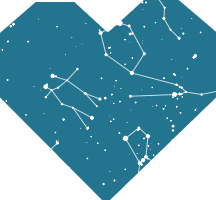
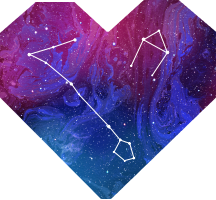
Updated background images and replaced lilac color with berry
Replaced the hero background image and heart constellation to match the new design that'll be used in all wedding designs

diff --git a/styles.css b/styles.css
@@ -12,7 +12,7 @@ html{
 
 :root {
   --white: #ffffff;
-  --lilac: #C09EBF;
+  --berry: #8A519C;
   --light-grey: #f6f6f6;
   --heading-type:'Poppins', sans-serif;;
   --body-type:'Roboto', sans-serif;
@@ -61,6 +61,7 @@ body{
 	text-align: center;
 	background-image: url(img/hero-desktop.png);
 	background-size: 100%;
+	background-position: center;
 	display:flex;
 }
 
@@ -185,12 +186,12 @@ body{
 }
 
 .subheading.color-modifier{
-	color: var(--lilac);
+	color: var(--berry);
 	
 }
 
 .subheading-large.color-modifier{
-	color: var(--lilac);
+	color: var(--berry);
 }
 
 .body-copy, .hashtag{
@@ -243,6 +244,7 @@ body{
 .hero{
 	background-image: url(img/hero-mobile.png);
 	background-size: cover;
+	background-position: center;
 	display:flex;
 }
 
